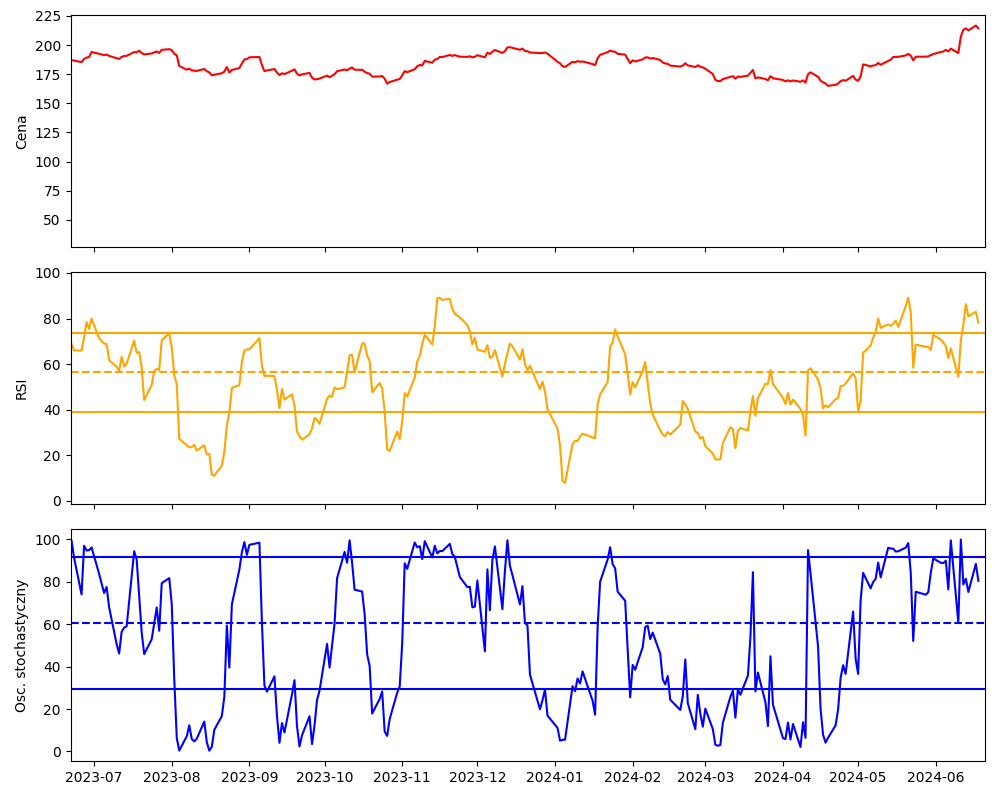
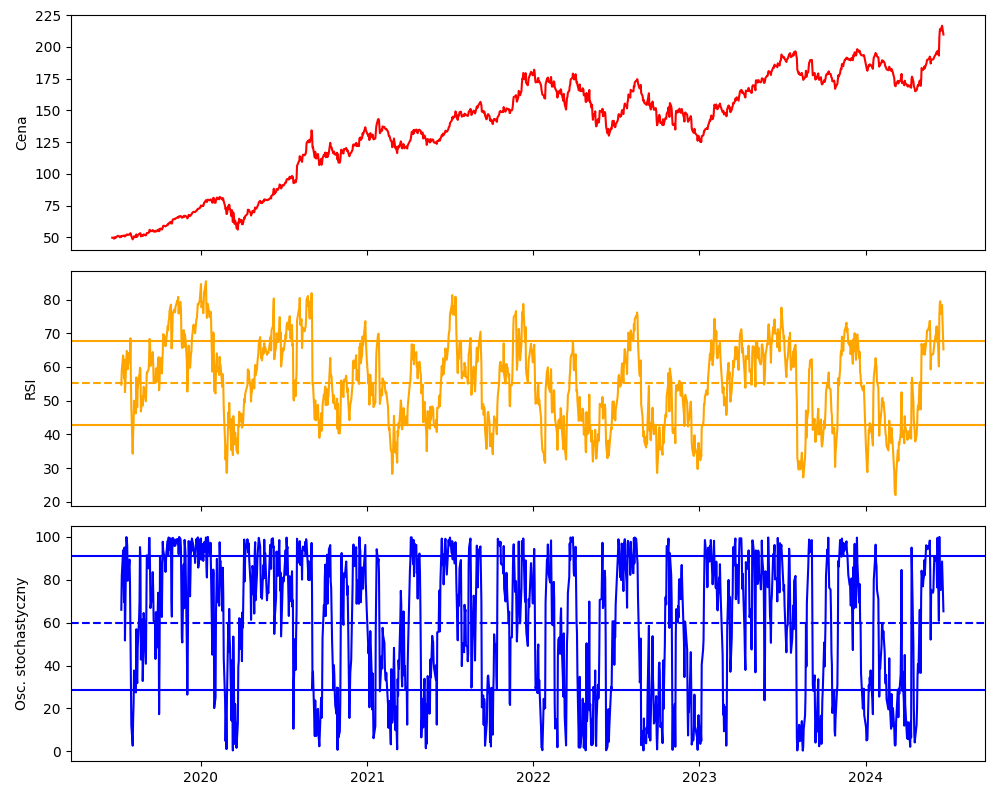
dodanie wskaźnika adx, dodanie opcji wyboru okresu czasu i interwału.

diff --git a/src/Bot.py b/src/Bot.py
@@ -1,27 +1,61 @@
 import logging
 import os
-import datetime
 import yfinance as yf
 
 from dotenv import load_dotenv
 from telegram import Update
 from telegram.constants import ParseMode
 from telegram.ext import ApplicationBuilder, ContextTypes, CommandHandler
-from StockAnalysis import year_cycle_graph, rsi_so_price
+from StockAnalysis import year_cycle_graph, rsi_so_price, adx
 
 
 async def start(update: Update, context: ContextTypes.DEFAULT_TYPE):
     text = ("*Cześć!*\nJestem botem, który pomaga analizować rynki finansowe.\n\n*Jak działam?*\nPobieram dane "
-            "z Yahoo Finance, analizuje je i na ich podstawie wyświetlam:\nTBD")
+            "z Yahoo Finance i na ich podstawie wyświetlam wykresy oraz wartości wskaźników.")
 
     await context.bot.send_message(chat_id=update.effective_chat.id, text=text, parse_mode=ParseMode.MARKDOWN)
 
 
 async def review(update: Update, context: ContextTypes.DEFAULT_TYPE):
-    symbol = update.message.text.split(" ")[-1]
+    intervals = ['1m', '2m', '5m', '15m', '30m', '60m', '90m', '1d', '5d', '1wk', '1mo', '3mo']
 
-    year = datetime.datetime.now().year - 5
-    data = yf.download(symbol, start=f"{year}-01-01")
+    periods = {
+        '1d': intervals[0:3],
+        '5d': intervals[0:6],
+        '1mo': intervals[3:8],
+        '6mo': intervals[7:8],
+        '1y': intervals[7:10],
+        '2y': intervals[7:10],
+        '5y': intervals[7:11],
+        '10y': intervals[7:],
+    }
+
+    symbol = update.message.text.split(" ")[1]
+    try:
+        period = update.message.text.split(" ")[2]
+    except IndexError:
+        period = "1y"
+    try:
+        interval = update.message.text.split(" ")[3]
+    except IndexError:
+        interval = "1d"
+
+    if period not in periods:
+        err_msg = f"Błąd - dostępne okresy czasu: {str(list(periods.keys())).replace("'", "")}"
+        await context.bot.send_message(chat_id=update.effective_chat.id, text=err_msg, parse_mode=ParseMode.MARKDOWN)
+        return
+
+    if interval not in intervals:
+        err_msg = f"Błąd - dostępne interwały: {str(intervals).replace("'", "")}"
+        await context.bot.send_message(chat_id=update.effective_chat.id, text=err_msg, parse_mode=ParseMode.MARKDOWN)
+        return
+
+    if interval not in periods.get(period):
+        err_msg = f"Błąd - dostępne interwały dla okresu {period}: {str(periods.get(period)).replace("'", "")}"
+        await context.bot.send_message(chat_id=update.effective_chat.id, text=err_msg, parse_mode=ParseMode.MARKDOWN)
+        return
+
+    data = yf.download(symbol, period=period, interval=interval)
 
     if data.empty:
         err_msg = f"Błąd - Brak danych o *{symbol}*"
@@ -38,8 +72,13 @@ async def review(update: Update, context: ContextTypes.DEFAULT_TYPE):
     await context.bot.send_photo(chat_id=update.effective_chat.id, photo="../resources/rop.png")
 
     # year cycle chart
-    year_cycle_graph(data)
-    await context.bot.send_photo(chat_id=update.effective_chat.id, photo="../resources/ycycle.png")
+    if period in list(periods.keys())[6:]:
+        year_cycle_graph(data)
+        await context.bot.send_photo(chat_id=update.effective_chat.id, photo="../resources/ycycle.png")
+
+    # ADX
+    adx(data)
+    await context.bot.send_photo(chat_id=update.effective_chat.id, photo="../resources/adx.png")
 
 
 load_dotenv()

diff --git a/src/StockAnalysis.py b/src/StockAnalysis.py
@@ -1,14 +1,11 @@
-import datetime
-
 import pandas as pd
 import matplotlib.pyplot as plt
+from ta import trend, momentum
 
 
 def save_fig(filename, title=""):
     plt.title(title)
     plt.legend()
-    plt.xticks([])
-    plt.yticks([])
     plt.xlabel('')
     plt.ylabel('')
     plt.tight_layout()
@@ -22,57 +19,41 @@ def year_cycle_graph(data: pd.DataFrame) -> None:
         data_year = data_year / data_year.max()
         data_year.index = data_year.index.strftime('%m-%d')
         data_year.plot(label=year)
+    plt.xticks([])
+    plt.yticks([])
     save_fig('ycycle.png', "Wykres cykli rocznych")
 
 
 def rsi_so_price(data: pd.DataFrame) -> tuple:
     # RSI
-    period = 14
-    delta = data['Close'].diff()
-
-    gain = delta.where(delta > 0, 0)
-    loss = -delta.where(delta < 0, 0)
-
-    avg_gain = gain.rolling(window=period).mean()
-    avg_loss = loss.rolling(window=period).mean()
-
-    rs = avg_gain / avg_loss
-
-    rsi = 100 - (100 / (1 + rs))
+    rsi = momentum.rsi(close=data["Close"], window=14)
+    rsi.dropna(inplace=True)
 
     avg_rsi = rsi.mean()
     std_rsi = rsi.std()
     act_rsi = rsi.iloc[-1]
 
     # Stochastics Oscilator
-    highest_high = data['High'].rolling(window=period).max()
-    lowest_low = data['Low'].rolling(window=period).min()
-
-    so = ((data['Close'] - lowest_low) / (highest_high - lowest_low)) * 100
+    so = momentum.stoch(high=data['High'], low=data['Low'], close=data['Close'], window=14, smooth_window=3)
+    so.dropna(inplace=True)
 
     avg_so = so.mean()
     std_so = so.std()
     act_so = so.iloc[-1]
 
     # chart
-    end = datetime.datetime.now()
-    start = end - datetime.timedelta(days=365)
-
     fig, (ax1, ax2, ax3) = plt.subplots(3, 1, figsize=(10, 8), sharex=True)
 
     ax1.plot(data['Close'], color="red")
-    ax1.set_xlim(start, end)
     ax1.set_ylabel('Cena')
 
     ax2.plot(rsi, color="orange")
-    ax2.set_xlim(start, end)
     ax2.axhline(y=avg_rsi + std_rsi, color="orange")
     ax2.axhline(y=avg_rsi - std_rsi, color="orange")
     ax2.axhline(y=avg_rsi, color="orange", linestyle="--")
     ax2.set_ylabel('RSI')
 
     ax3.plot(so, color="blue")
-    ax3.set_xlim(start, end)
     ax3.axhline(y=avg_so + std_so, color="blue")
     ax3.axhline(y=avg_so - std_so, color="blue")
     ax3.axhline(y=avg_so, color="blue", linestyle="--")
@@ -84,3 +65,15 @@ def rsi_so_price(data: pd.DataFrame) -> tuple:
 
     return round(avg_rsi, 2), round(std_rsi, 2), round(act_rsi, 2), round(avg_so, 2), round(std_so, 2), \
         round(act_so, 2)
+
+
+def adx(data: pd.DataFrame) -> None:
+    c_adx = trend.adx(high=data['High'], low=data['Low'], close=data['Close'], window=14)
+    c_adx = c_adx[c_adx != 0.0]
+
+    # chart
+    c_adx.plot(label="ADX", color="black")
+    plt.axhline(y=20, color="green", label="Linia przebicia")
+    plt.axhline(y=40, color="red", linestyle="--", label="Linia uwagi")
+
+    save_fig("adx.png", "Wskaźnik trendu - ADX")
